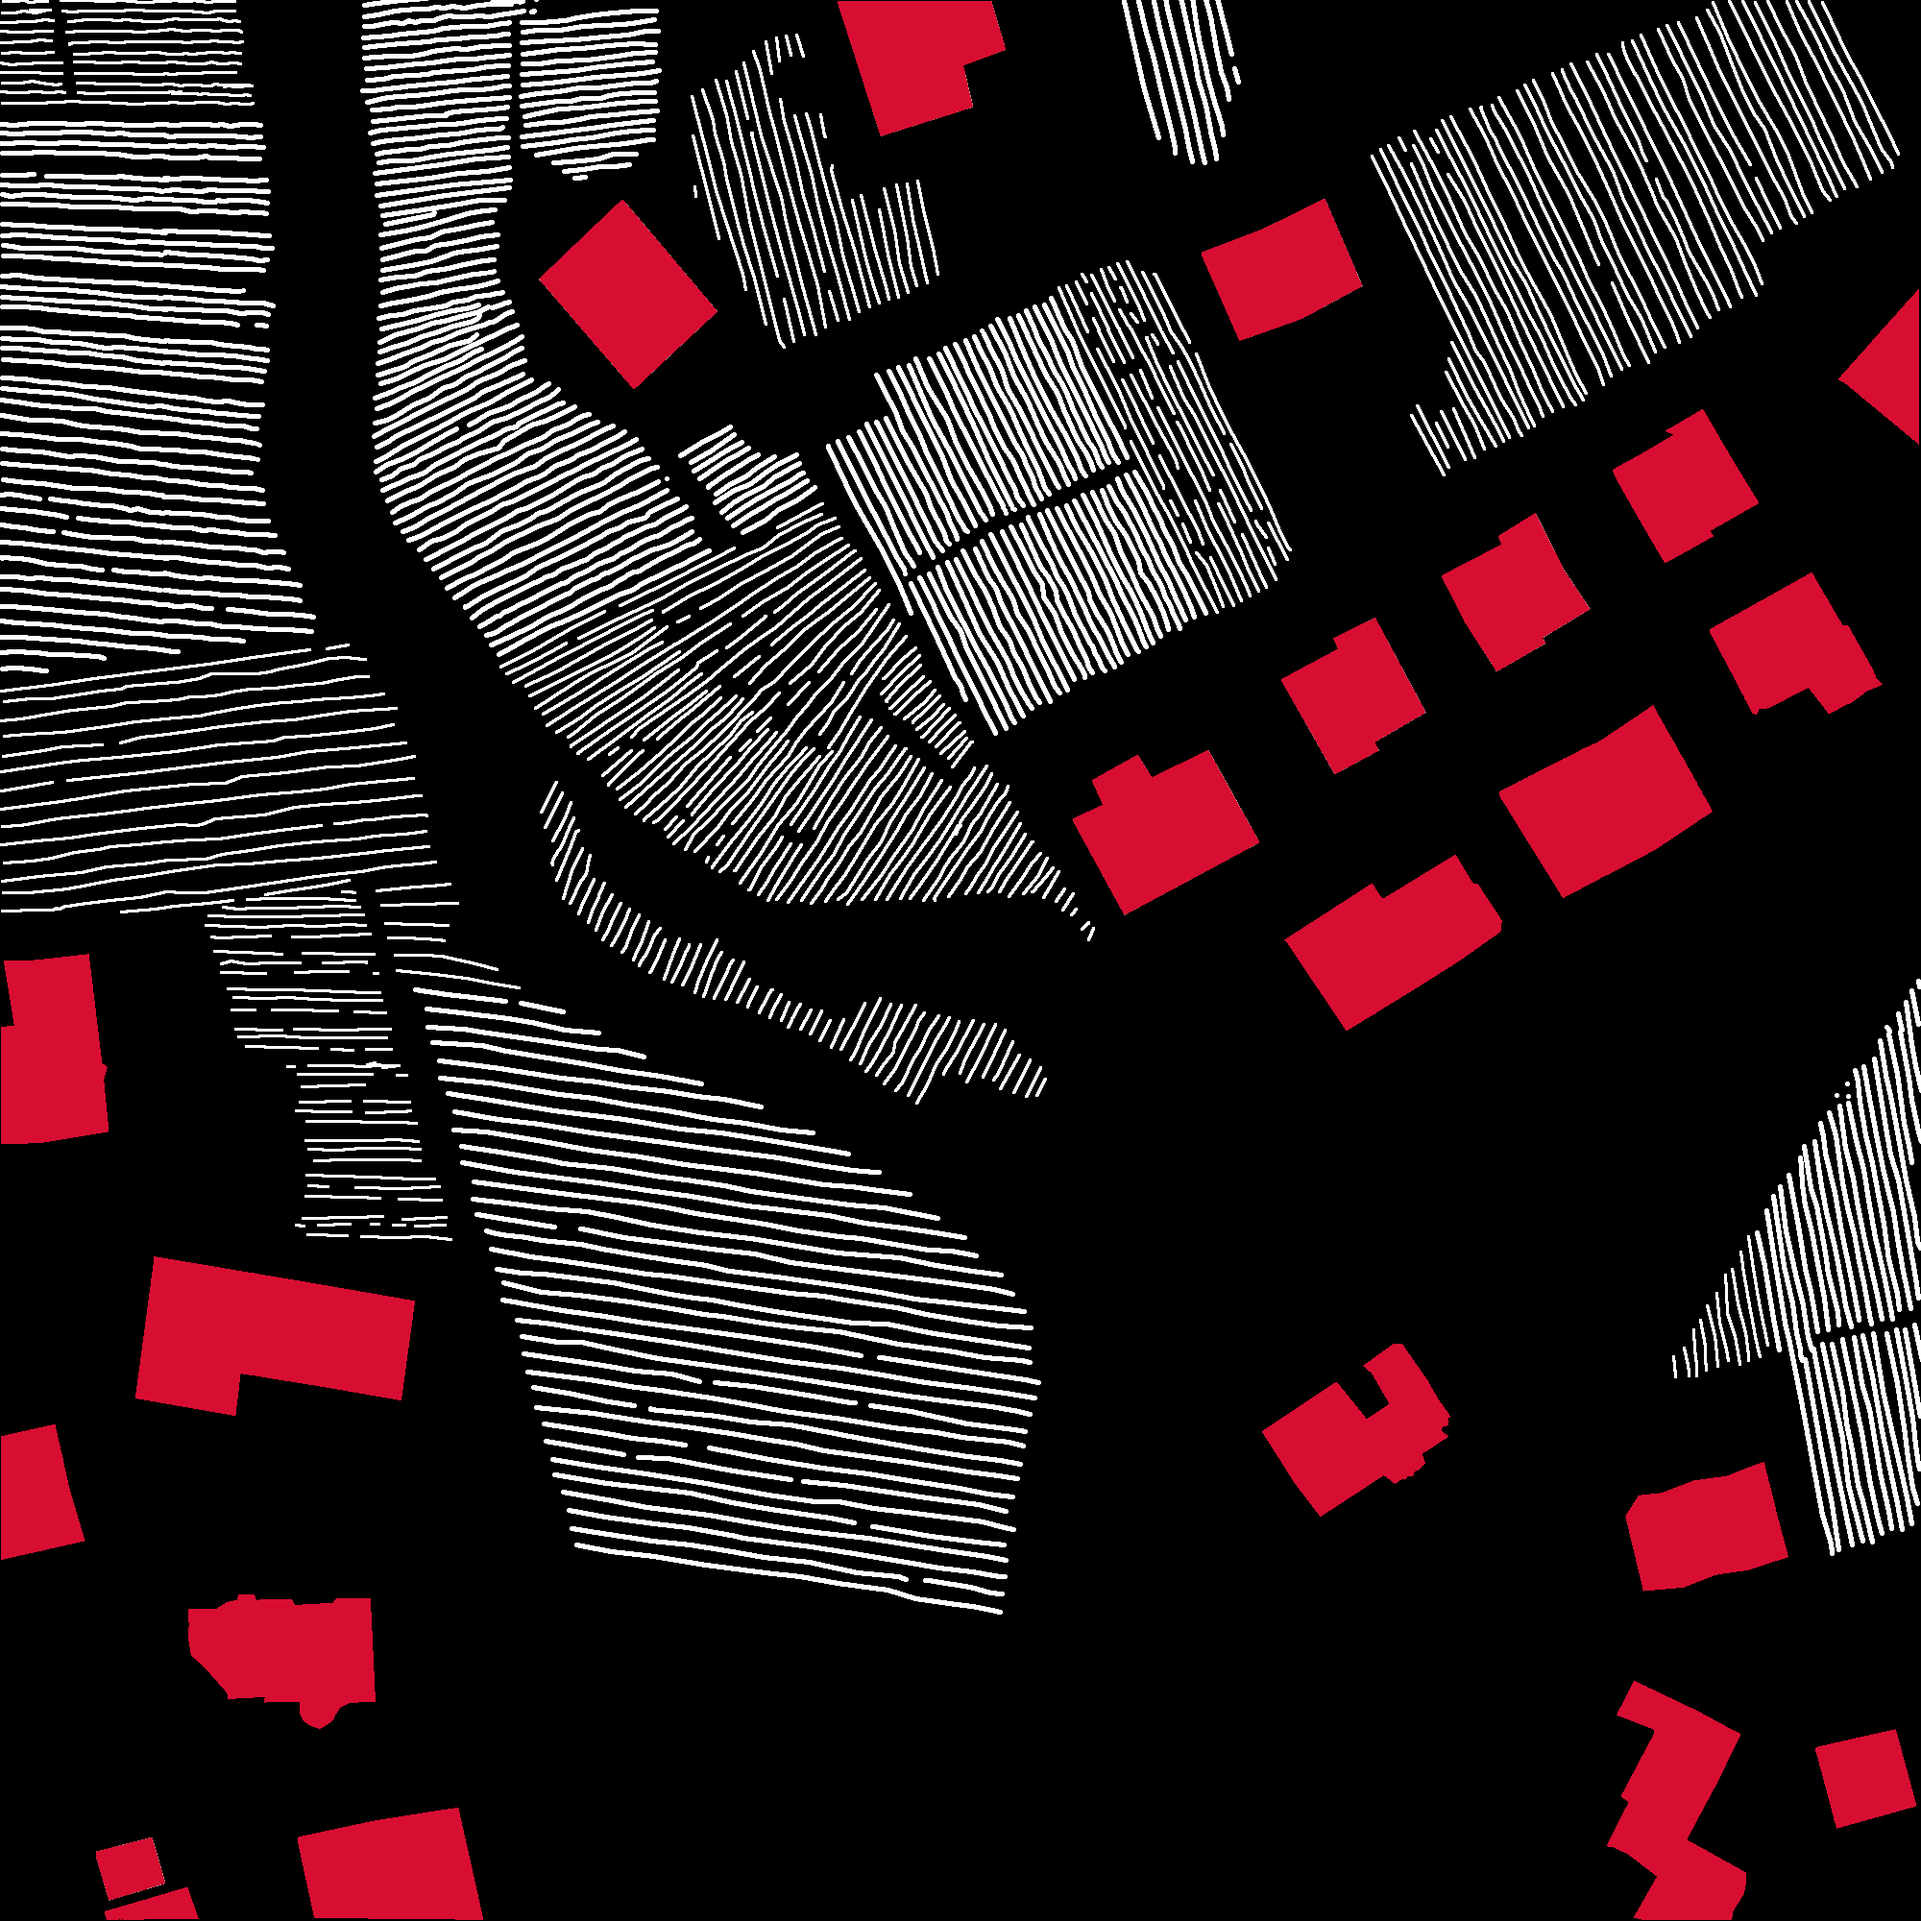
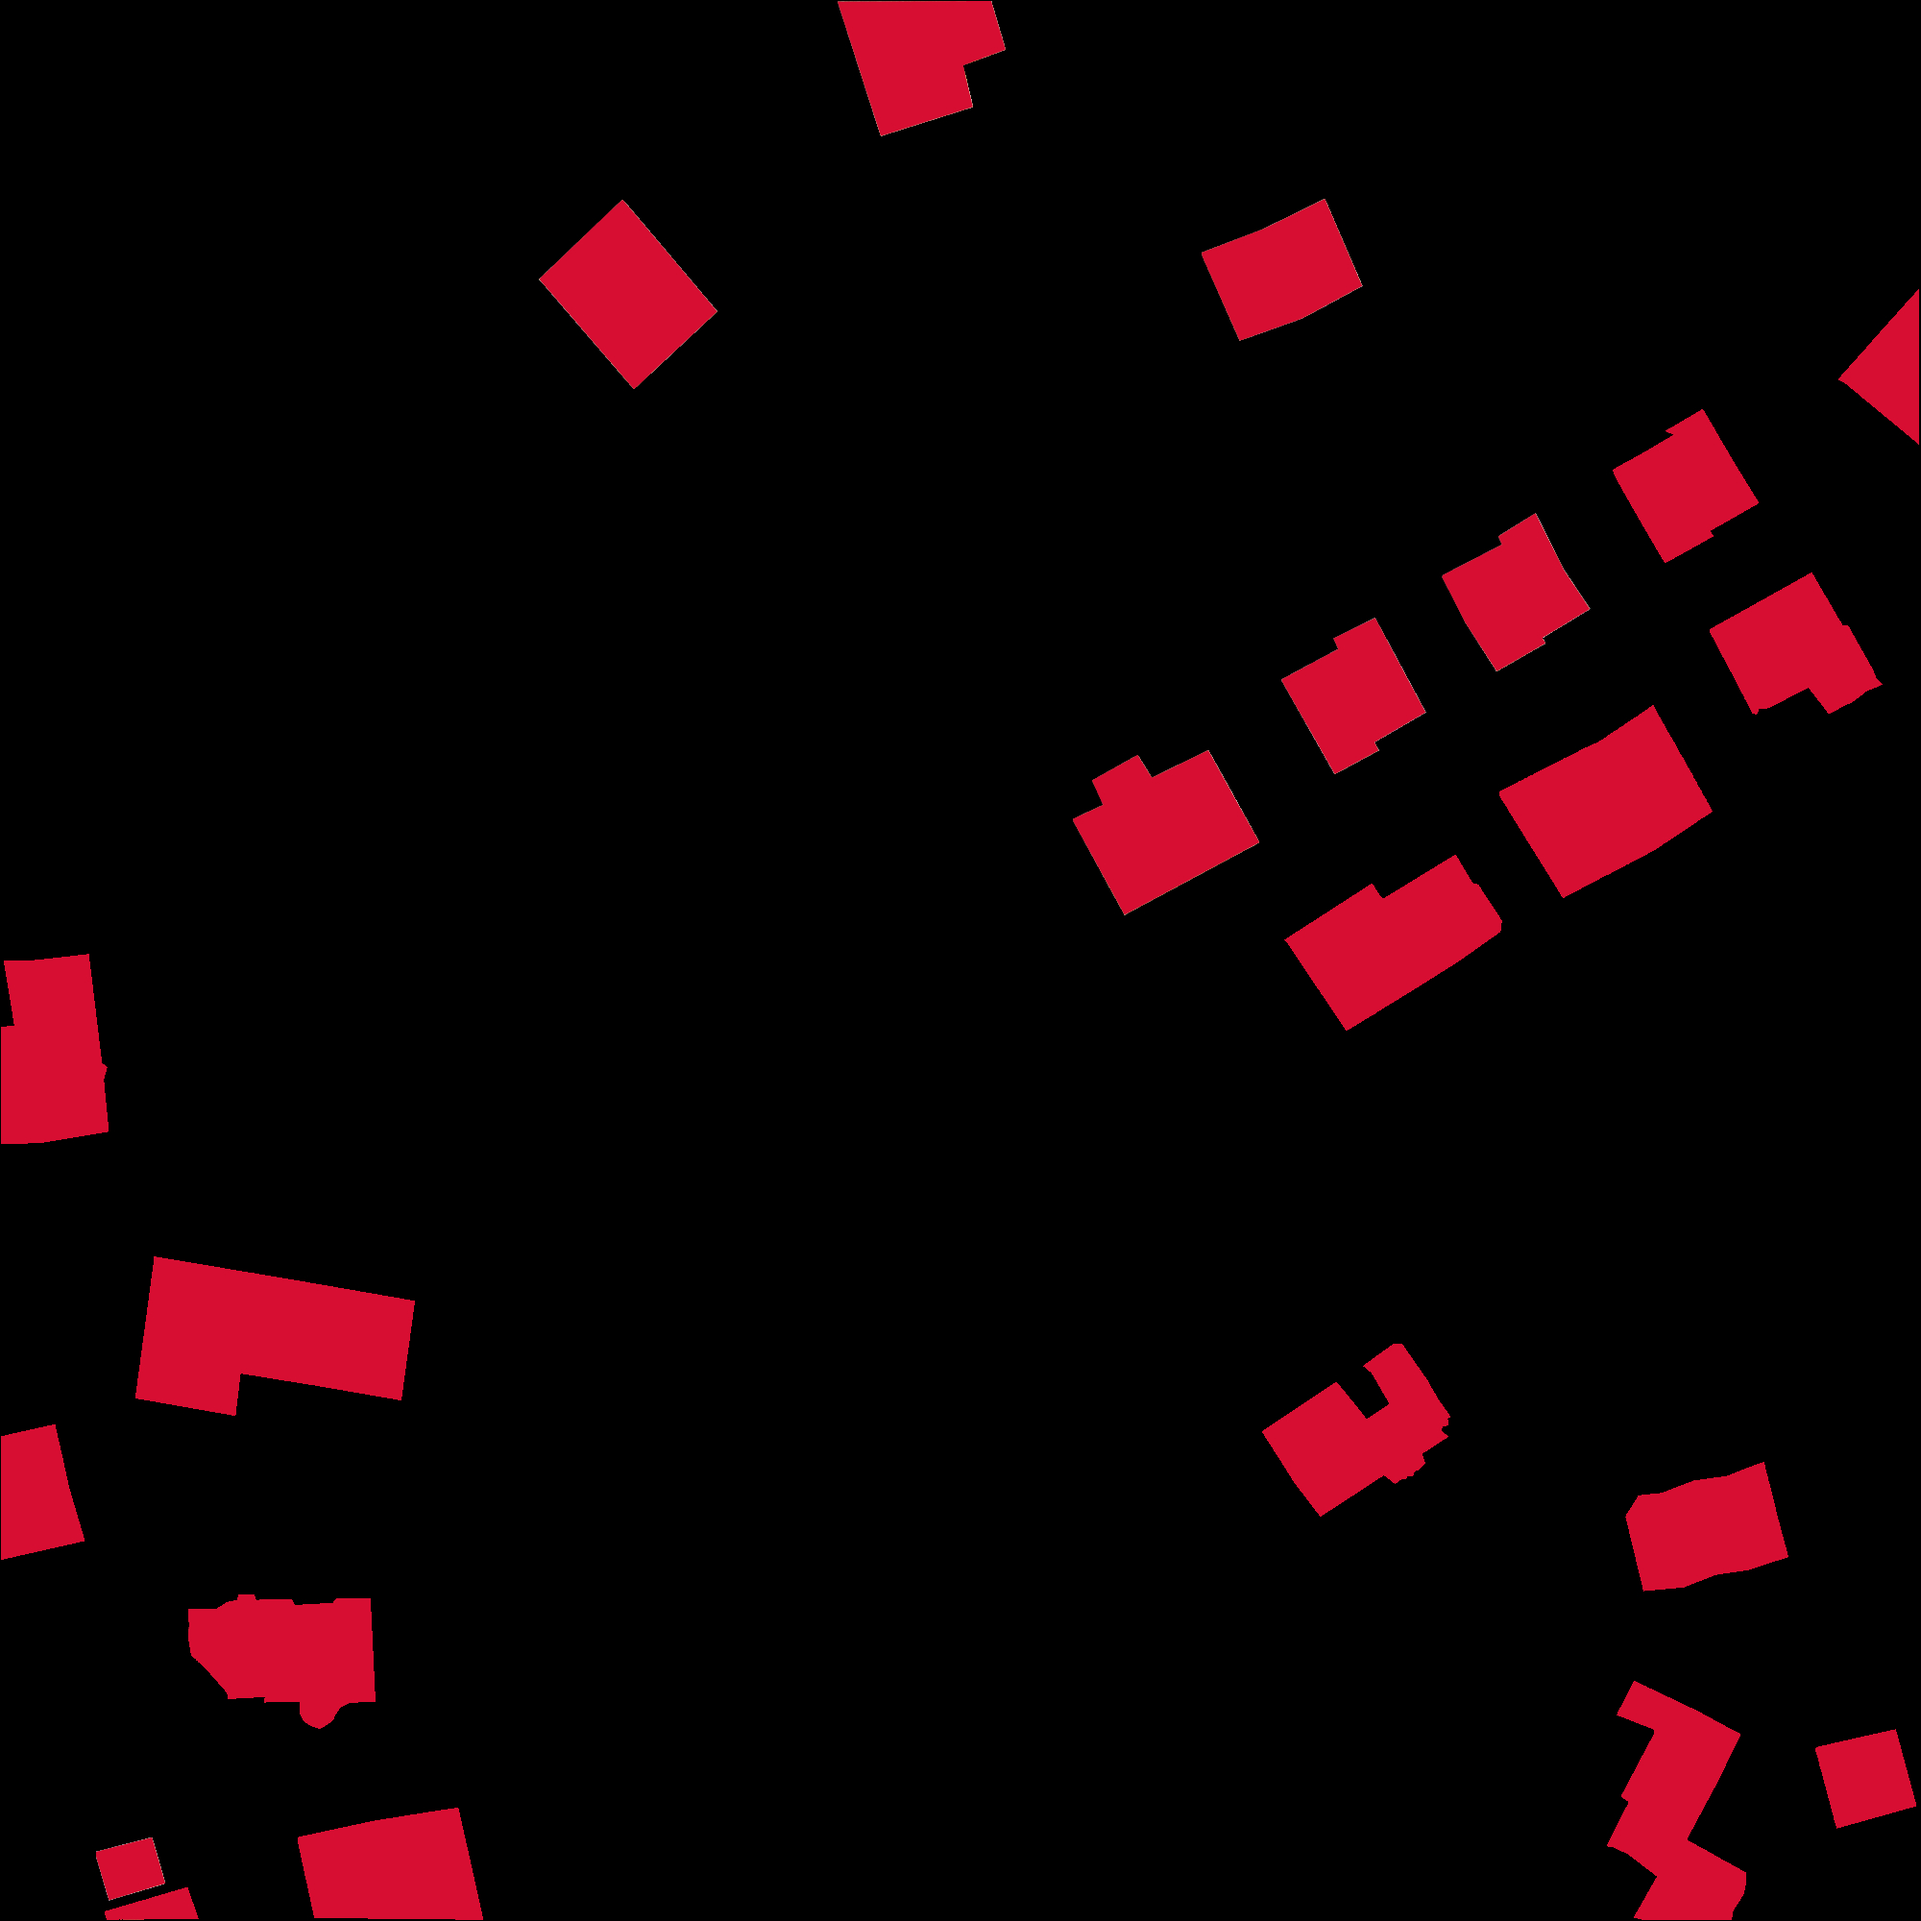
Cascading predictions

diff --git a/unet_validation.py b/unet_validation.py
@@ -20,6 +20,7 @@ import config
 
 from file_manager import FileManager
 from image_manager import ImageManager
+from binary_unet_model import binary_unet_sym
 
 class_encoding = FileManager.get_classes_encoding()
 
@@ -30,15 +31,54 @@ def val_generator(img_lst):
         img = np.asarray([img])
         yield img
 
+# Vine line prediction visualisation
+def concat_prediction_binary(predictions, image, img_list_generator, cut_size, gt_size, pred_val=0.75):
+    x = 0
+    y = 0
+    cp_x = (cut_size - gt_size)//2
+    cp_y = cp_x
+    cp_image = Image.fromarray(image)
+    predictions = predictions >= pred_val
+    for i, pred in enumerate(predictions):
+        if y + cut_size >= image.shape[0]:
+            cp_x += gt_size
+            x += gt_size
+            cp_y = (cut_size-gt_size)//2
+            y = 0
+        if x + cut_size >= image.shape[1]:
+            break
+        
+        # Keep only the first element (true for vine, false for other)
+        pred = pred[:, :, 0]
 
-# Reconstitution de l'image en une
-def concat_prediction(predictions, image, cut_size, gt_size, pred_val=0.75):
+        # Get original image pixels
+        cp_tmp = next(img_list_generator)
+        cp_tmp = np.squeeze(cp_tmp)
+
+        # Assign white to vine lines
+        mask_indices = np.where(pred == True)
+        cp_tmp[mask_indices] = (1, 1, 1)
+
+        cp_tmp = np.float32(cp_tmp*255)        
+        cp_tmp = np.uint8(cp_tmp)
+        cp_tmp = Image.fromarray(cp_tmp)
+        cp_tmp = cp_tmp.resize((gt_size, gt_size))
+        test = cv2.cvtColor(np.array(cp_tmp), cv2.COLOR_RGB2BGR)   
+        path = os.path.join(config.TEMP_OUTPUT, "test_" + str(cp_x) + str(cp_y) + ".jpg")
+        cv2.imwrite(path, test)
+        cp_image.paste(cp_tmp, (cp_x, cp_y))
+        cp_y += gt_size
+        y += gt_size
+    return cp_image
+
+
+# Concatenate the prediction for vine lines and other objects
+def concat_prediction(predictions, image, img_list_gen, cut_size, gt_size):
     x = 0
     y = 0
     cp_x = (cut_size - gt_size)//2
     cp_y = cp_x
     cp_image = Image.new('RGB', (image.shape[1], image.shape[0]))
-    # predictions = predictions >= pred_val
     for i, item in enumerate(predictions):
         if y + cut_size >= image.shape[0]:
             cp_x += gt_size
@@ -55,8 +95,17 @@ def concat_prediction(predictions, image, cut_size, gt_size, pred_val=0.75):
         # Set the color to the class with the highest probability
         predicted_classes = np.argmax(item, axis=2)
         for name, label, color in class_encoding:
+            if (label == 2):
+                continue
             mask_indices = np.where(predicted_classes == label)
             decoded_mask[mask_indices] = color
+
+        # Append previously detected vine lines
+        original_patch = next(img_list_gen)
+        original_patch = np.squeeze(original_patch)
+        #vine_indices = np.all(original_patch == (1,1,1), axis=2)  
+        vine_indices = np.all(np.abs(original_patch - (1,1,1)) <= 10/255, axis=2)
+        decoded_mask[vine_indices] = (255, 255, 255)
        
         cp_tmp = np.uint8(decoded_mask)
         cp_tmp = Image.fromarray(cp_tmp)
@@ -68,6 +117,11 @@ def concat_prediction(predictions, image, cut_size, gt_size, pred_val=0.75):
         cp_y += gt_size
         y += gt_size
     return cp_image
+
+def pre_process(image, cut_size, gt_size):
+    imageManager = ImageManager(cut_size, gt_size)
+    img_list = imageManager.image_splitting(image, cut_size, gt_size)
+    return img_list, len(img_list)
 
 
 def calcul_accuracy(results, filename, extension):
@@ -81,7 +135,9 @@ def calcul_accuracy(results, filename, extension):
     ca_mask = np.asarray(ca_mask) / 255
     results = np.asarray(results) / 255
 
-    for name, label, color in class_encoding:
+    class_encoding_with_vines = class_encoding
+    class_encoding_with_vines.append(["Vine", len(class_encoding), (255,255,255)])
+    for name, label, color in class_encoding_with_vines:
         color = np.asarray(color) / 255
 
         # Get the indices of the class in the prediction and mask images
@@ -147,9 +203,6 @@ def calcul_accuracy(results, filename, extension):
     print("IoU =", np.sum(intersection) / np.sum(union))
     print("F1 score =", 2*(precision * recall) / (precision + recall))
 
-
-
-
 def adaptive_histogram_equalization_rgb(image: [], grid_size=50):
     """ Return an image RGB with the adaptive histogram equalization applied
     """
@@ -182,8 +235,10 @@ def main(argv):
     file = ''
     cut_size = 144
     gt_size = 144
-    weights = "./Weights/unet_vines.hdf5"
-    result_dir = './Results/'
+    vine_weights = "./Weights/unet_vines.hdf5"
+    other_weights = "./Weights/scratch_5epochs.hdf5"
+    vine_result_dir = './Results/vine_temp/'
+    result_dir = "./Results/cascade/"
     percent = 0.6
     stats = False
     hist = False
@@ -212,7 +267,7 @@ def main(argv):
         elif opt in ("-c", "--size"):
             cut_size = int(arg)
         elif opt in ("-w", "--weights"):
-            weights = str(arg)
+            vine_weights = str(arg)
         elif opt in ("-r", "--results"):
             result_dir = str(arg)
         elif opt == "-p":
@@ -227,11 +282,13 @@ def main(argv):
     if file == '':
         print("Usage: unet_validation -f <file path> optional(-c <cut size> -g <gt size> -w <weights path> -r <results folder>)")
         sys.exit(2)
-    if not os.path.isdir(result_dir):
-        os.mkdir(result_dir)
+    if not os.path.isdir(vine_result_dir):
+        os.mkdir(vine_result_dir)
     input_size = (cut_size, cut_size, 3)
     filename, extension = FileManager.get_filename_n_extension(self=None, path=file)
     image = cv2.imread(file)
+    image = cv2.cvtColor(image, cv2.COLOR_BGR2RGB)
+
     if hist:
         image = adaptive_histogram_equalization_rgb(image)
 
@@ -246,22 +303,35 @@ def main(argv):
         cut_size = int(config.CUT_SIZE/ratio)
         gt_size = int(config.GT_SIZE/ratio)
 
-    imageManager = ImageManager(cut_size, gt_size)
-    img_list = imageManager.image_splitting(image, cut_size, gt_size)
-    count_img = len(img_list)
+    # Pre-processing to have the same conditions as in training
+    img_list, count_img = pre_process(image, cut_size, gt_size)
     test_gen = val_generator(img_list)
 
-    # Prediction avec les weights entrainer
-    model = unet_sym(pretrained_weights=weights, input_size=input_size)
-    print(model.summary())
+    # Vine lines prediction
+    model = binary_unet_sym(pretrained_weights=vine_weights, input_size=input_size)
     results = model.predict_generator(test_gen, count_img, verbose=1)
+    res_image = concat_prediction_binary(results, image, val_generator(img_list), cut_size, gt_size, percent)
 
-    # Sauvegarde du resultat
-    res_image = concat_prediction(results, image, cut_size, gt_size, percent)
-    if result_dir[-1] == '/':
-        res_image.save(result_dir + filename + "_" + str(cut_size) + "_" + str(gt_size) + datetime.now().strftime("%Y%m%d-%H%M%S") + extension)
-    else:
-        res_image.save(result_dir + "/" + filename + "_" + cut_size + "_" + gt_size + datetime.now().strftime("%Y%m%d-%H%M%S") + extension)
+    # Save temp result (only vine lines segmented)
+    temp_vine_path = vine_result_dir + filename + "_" + str(cut_size) + "_" + str(gt_size) + datetime.now().strftime("%Y%m%d-%H%M%S") + extension 
+    res_image.save(temp_vine_path)
+
+    # Pre-process image with vine lines detected
+    image_vine_detected = cv2.imread(temp_vine_path)
+    image_vine_detected = cv2.cvtColor(image_vine_detected, cv2.COLOR_BGR2RGB)
+    img_list_other, count_img_other = pre_process(image_vine_detected, cut_size, gt_size)
+    test_gen_other = val_generator(img_list_other)
+
+    # Other objects prediction
+    other_model = unet_sym(pretrained_weights=other_weights, input_size=input_size)
+    print("Detecting other objects")
+    results_other = other_model.predict_generator(test_gen_other, count_img_other, verbose=1)
+    res_image_other = concat_prediction(results_other, image_vine_detected, val_generator(img_list_other), cut_size, gt_size)
+
+    # Save concatenated results of both models
+    res_image_other.save(result_dir + filename + "_" + str(cut_size) + "_" + str(gt_size) + datetime.now().strftime("%Y%m%d-%H%M%S") + extension )
+
+    # Metrics
     if stats:
         calcul_accuracy(res_image, filename, extension)
 

diff --git a/binary_unet_model.py b/binary_unet_model.py
@@ -1,0 +1,41 @@
+# ********************************************************************************************************* #
+#  ____            _            _          _                                                                #
+# |  _ \ _   _  __| | ___      | |    __ _| |__           unet_model_mathematica.py                         #
+# | | | | | | |/ _` |/ _ \_____| |   / _` | '_ \          By: Jérôme Treboux <jerome.treboux@hevs.ch>       #
+# | |_| | |_| | (_| |  __/_____| |__| (_| | |_) |         Created: 2021/04/30 10:44:14 by Jérôme Treboux    #
+# |____/ \__,_|\__,_|\___|     |_____\__,_|_.__/          Updated: 2021/04/30 10:44:14 by Jérôme Treboux    #
+#                                                                                                           #
+# ********************************************************************************************************* #
+
+from tensorflow.keras.models import *
+from tensorflow.keras.layers import *
+from tensorflow.keras.optimizers import *
+
+# UNET Model : Symetrique
+def binary_unet_sym(pretrained_weights=None, input_size=(144, 144, 3)):
+    inputs = Input(input_size)
+    conv1 = Conv2D(3, (2, 2), activation='relu', padding='valid', kernel_initializer='he_normal', strides=2)(inputs)
+    conv2 = Conv2D(6, (3, 3), activation='relu', padding='valid', kernel_initializer='he_normal', strides=3)(conv1)
+    conv3 = Conv2D(12, (5, 5), activation='relu', padding='valid', kernel_initializer='he_normal')(conv2)
+    conv4 = Conv2D(12, (5, 5), activation='relu', padding='valid', kernel_initializer='he_normal')(conv3)
+    conv5 = Conv2D(18, (5, 5), activation='relu', padding='valid', kernel_initializer='he_normal')(conv4)
+    conv6 = Conv2D(18, (5, 5), activation='relu', padding='valid', kernel_initializer='he_normal')(conv5)
+    conv7 = Conv2D(24, (5, 5), activation='relu', padding='valid', kernel_initializer='he_normal')(conv6)
+    up7 = UpSampling2D(size=(3, 3))(conv7)
+    merge7 = concatenate([conv5, up7], axis=3)
+    up8 = UpSampling2D(size=(2, 2))(merge7)
+    merge8 = concatenate([conv2, up8], axis=3)
+    up9 = UpSampling2D(size=(3, 3))(merge8)
+    up10 = UpSampling2D(size=(2, 2))(up9)
+    conv10 = Conv2D(2, (1, 1), activation='sigmoid', padding='same', kernel_initializer='he_normal')(up10)
+
+    model = Model(inputs, conv10)
+
+    model.compile(optimizer=Adam(lr=1e-4), loss='binary_crossentropy', metrics=['accuracy'])
+
+    if pretrained_weights:
+        model.load_weights(pretrained_weights)
+
+    return model
+
+

diff --git a/unet_model.py b/unet_model.py
@@ -3,7 +3,7 @@
 # |  _ \ _   _  __| | ___      | |    __ _| |__           unet_model_mathematica.py                         #
 # | | | | | | |/ _` |/ _ \_____| |   / _` | '_ \          By: Jérôme Treboux <jerome.treboux@hevs.ch>       #
 # | |_| | |_| | (_| |  __/_____| |__| (_| | |_) |         Created: 2021/04/30 10:44:14 by Jérôme Treboux    #
-# |____/ \__,_|\__,_|\___|     |_____\__,_|_.__/          Updated: 2021/04/30 10:44:14 by Jérôme Treboux    #
+# |____/ \__,_|\__,_|\___|     |_____\__,_|_.__/          Updated: 2023/07/03 14:30:29 by Benjamin Biollaz  #
 #                                                                                                           #
 # ********************************************************************************************************* #
 
@@ -27,7 +27,7 @@ def unet_sym(pretrained_weights=None, input_size=(144, 144, 3), seed=None):
     # Used to avoid problems when doing several inferences on the same run
     K.clear_session()
 
-    initializer = tf.keras.initializers.he_normal(seed) if seed is not None else tf.keras.initializers.he_normal()
+    initializer = tf.keras.initializers.he_normal()
 
     inputs = Input(input_size)
     conv1 = Conv2D(3, (2, 2), activation='relu', padding='valid', kernel_initializer=initializer, strides=2)(inputs)
